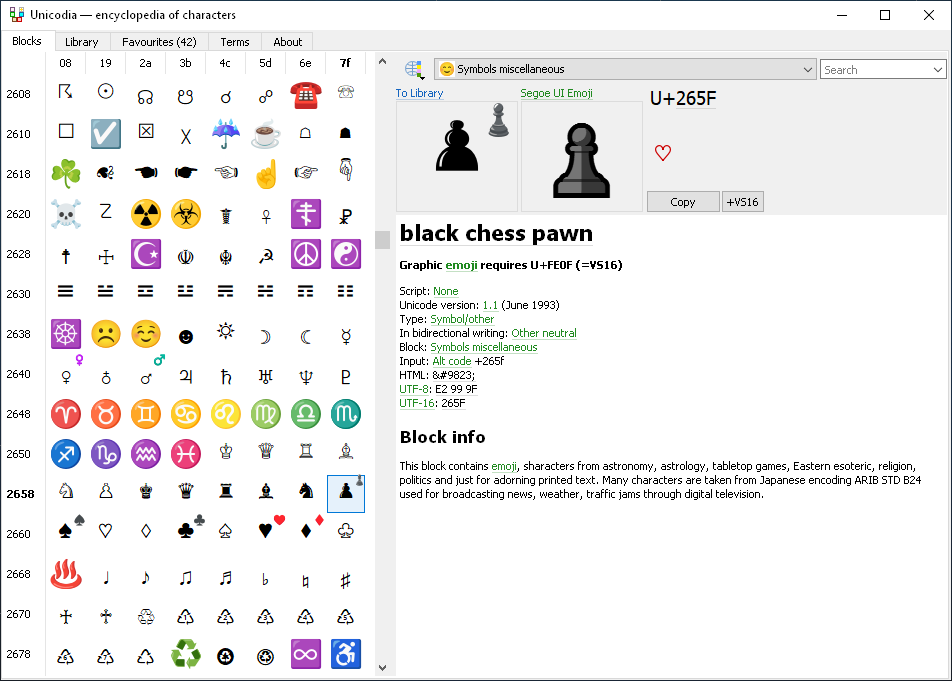
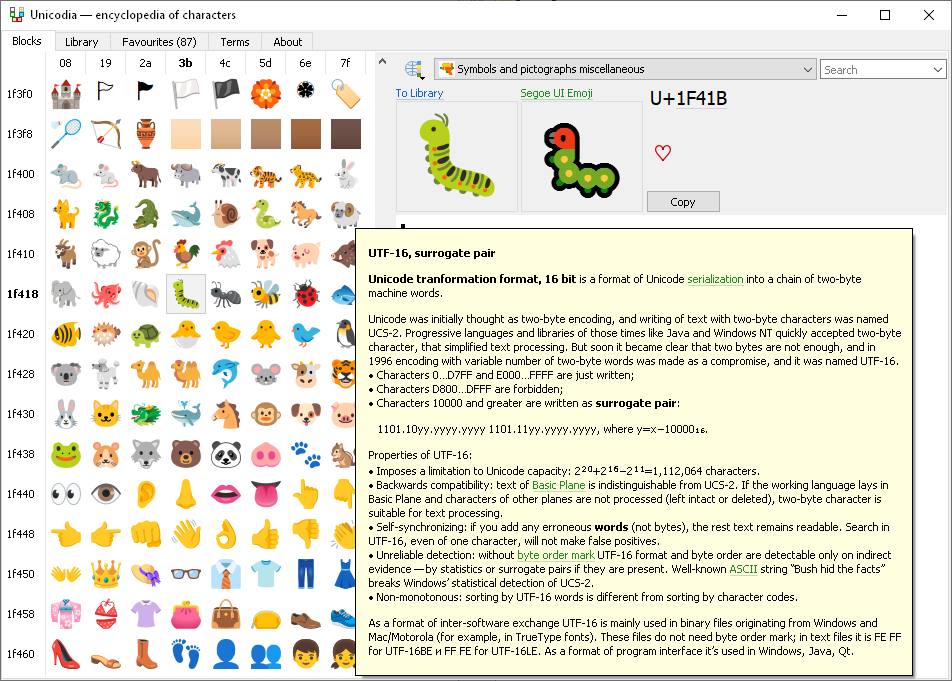
site

diff --git a/docs/index.htm b/docs/index.htm
@@ -26,8 +26,8 @@ h1,h2,h3,h4,h5,h6 {
      <td><h3><a href='https://github.com/Mercury13/unicodia/releases'>Качать здесь</a></h3>
      <td><h3><a href='https://github.com/Mercury13/unicodia/releases'>Download here</a></h3>
 	<tr>
-     <td><b>Юникод 16.0&nbsp;β, большие изменения в отображении символов.</b>
-     <td><b>Unicode 16.0&nbsp;β, great changes in character rendering.</b>
+     <td><b>Большое исправление ошибок, и всплывающие окна тоже.</b>
+     <td><b>A big bugfix release, including those pop-up windows.</b>
 	<tr>
 	 <td colspan='2' style='text-align:center'><img src='pix/shot1.png' alt='screenshot'>
 	<tr>
